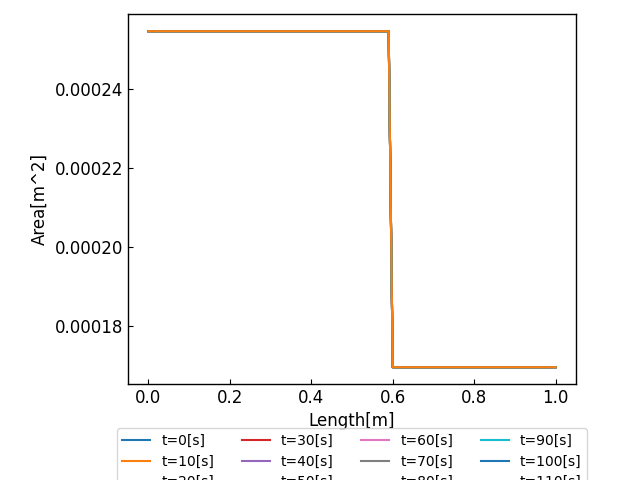
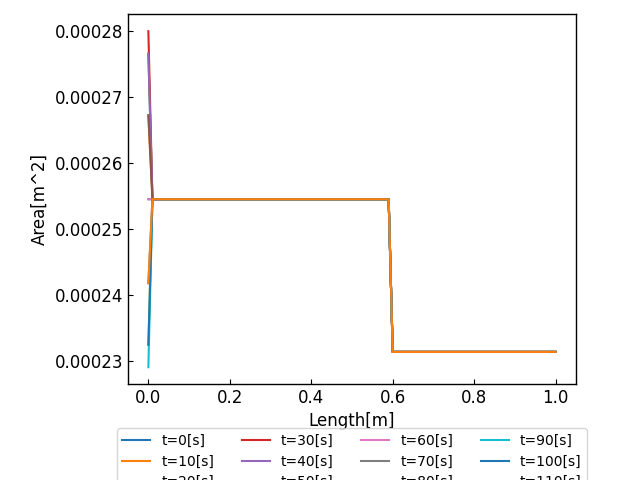
速度の出力も追加

diff --git a/U.py b/U.py
@@ -1,0 +1,47 @@
+import numpy as np
+import matplotlib.pyplot as plt
+
+velocities = np.loadtxt("output/dat/velocity.dat", dtype=float)
+iteratedTime = np.loadtxt("output/dat/iteratedTime.dat", dtype=int)
+
+length = []
+for i in range(101):
+    length.append(i * 0.01)
+
+index = [f"t={10 * i}[s]" for i in range(iteratedTime)]
+
+fig = plt.figure()  # define the name for saving png file
+plt.rcParams["font.family"] = "sans-serif"  # 使用するフォント
+# x軸の目盛線が内向き('in')か外向き('out')か双方向か('inout')
+plt.rcParams["xtick.direction"] = "in"
+# y軸の目盛線が内向き('in')か外向き('out')か双方向か('inout')
+plt.rcParams["ytick.direction"] = "in"
+# plt.rcParams["xtick.major.width"] = 1.0  # x軸主目盛り線の線幅
+# plt.rcParams["ytick.major.width"] = 1.0  # y軸主目盛り線の線幅
+plt.rcParams["font.size"] = 12  # フォントの大きさ
+plt.rcParams["axes.linewidth"] = 1.0  # 軸の線幅edge linewidth。囲みの太さ
+# ↓グラフ位置の調整
+plt.subplots_adjust(
+    left=0.2, bottom=0.2, right=None, top=0.97, wspace=None, hspace=None
+)
+
+for j in range(iteratedTime):
+    plt.plot(length, velocities[j])
+
+plt.xlabel("Length[m]")
+plt.ylabel("Velocity[m/s]")
+
+# Legend
+plt.legend(
+    index,
+    bbox_to_anchor=(
+        0.5,
+        -0.1,
+    ),
+    loc="upper center",
+    borderaxespad=0.5,
+    ncol=4,
+    fontsize=10,
+)
+
+fig.savefig("output/png/velocity.png")

diff --git a/main.cpp b/main.cpp
@@ -72,8 +72,8 @@ void initVariables()
     }
     else
     {
-      area[0][i] = A0 / 1.5e0;
-      velocity[0][i] = v0 * 1.5e0;
+      area[0][i] = A0 / 1.1e0;
+      velocity[0][i] = v0 * 1.1e0;
       flowQuantity[0][i] = area[0][i] * velocity[0][i];
     }
   }
@@ -108,6 +108,17 @@ void output()
     ofs2 << endl;
   }
   ofs2.close();
+
+  ofstream ofs3("output/dat/velocity.dat");
+  for (int i = 0; i < iteratedTime; i++)
+  {
+    for (int j = 0; j < NODE_NUM; j++)
+    {
+      ofs3 << flowQuantity[i * M / iteratedTime][j] / area[i * M / iteratedTime][j] << " ";
+    }
+    ofs3 << endl;
+  }
+  ofs3.close();
 }
 
 void exec()
@@ -156,7 +167,7 @@ void exec()
     }
 
     // B.C. : 0番目のnode点では常に流路面積, 速度一定
-    area[i][0] = A0;
+    area[i][0] = A0 * (1e0 + 1e-1 * sin(2e0 * M_PI * i / M));
     flowQuantity[i][0] = A0 * v0;
 
     for (int j = 0; j < ELEMENT_NUM; j++)
